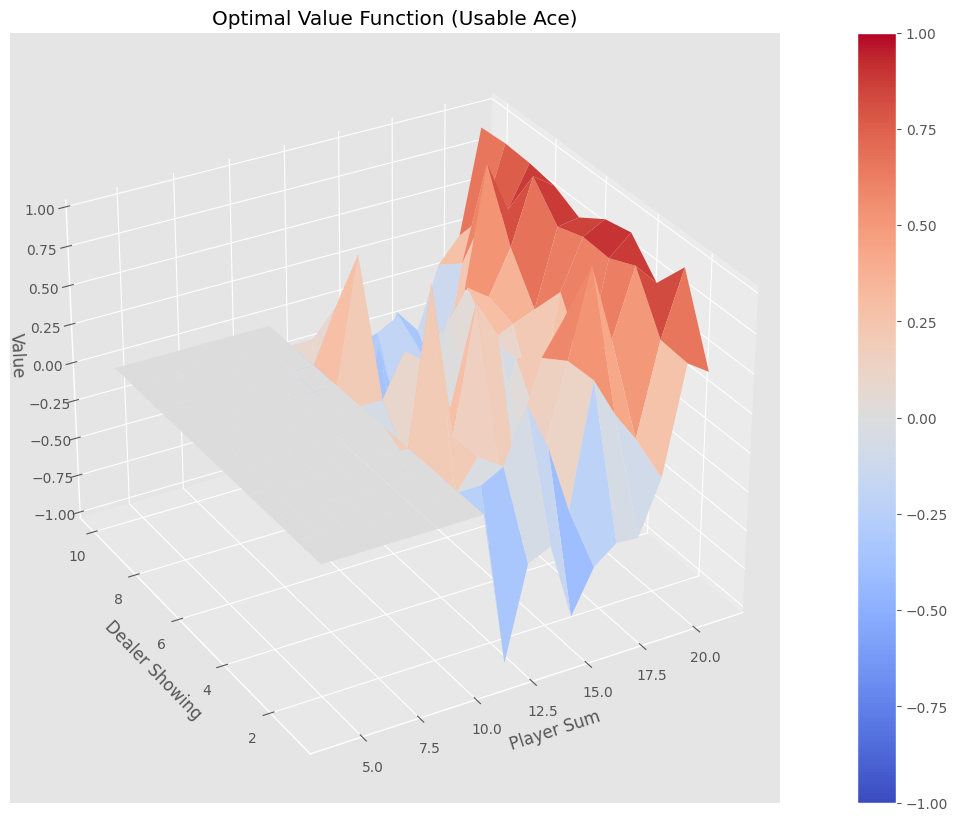
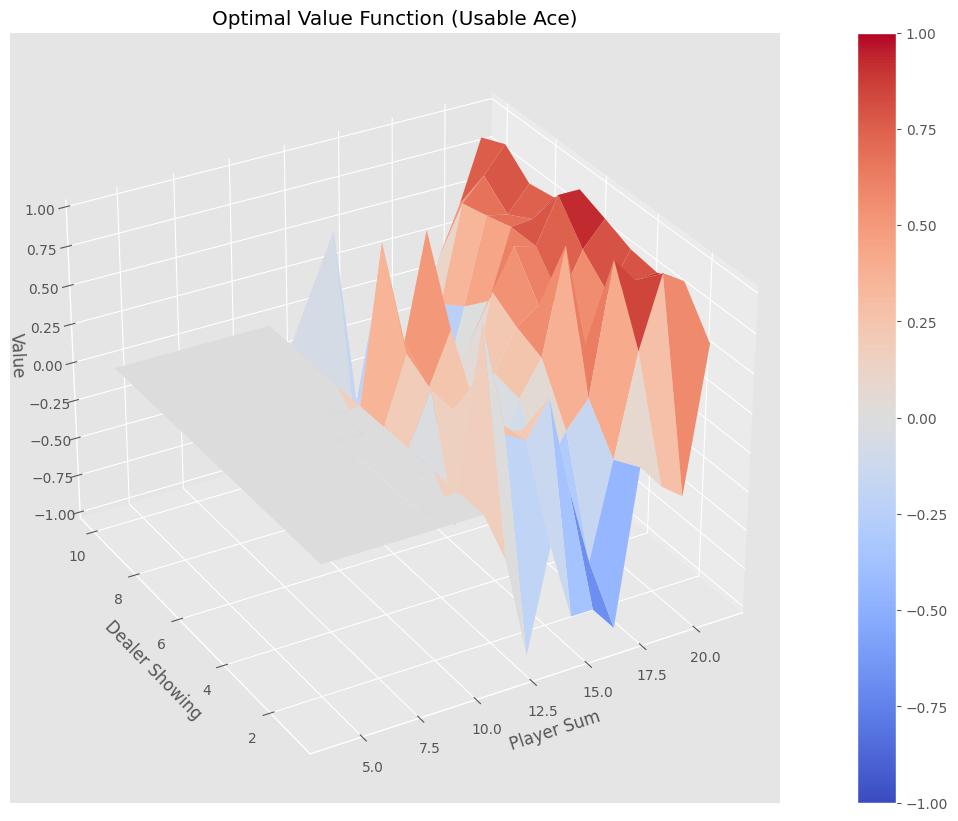
Add my warmup implementation

Changed region(s): [[0.333, 0.1523, 0.7568, 0.7917]]

diff --git a/warmup/mc.py b/warmup/mc.py
@@ -10,103 +10,98 @@ matplotlib.style.use('ggplot')
 
 env = BlackjackEnv()
 
-
 def make_epsilon_greedy_policy(Q, epsilon, nA):
     """
     Creates an epsilon-greedy policy based on a given Q-function and epsilon.
-
+    
     Args:
         Q: A dictionary that maps from state -> action-values.
             Each value is a numpy array of length nA (see below)
         epsilon: The probability to select a random action . float between 0 and 1.
         nA: Number of actions in the environment.
-
+    
     Returns:
         A function that takes the observation as an argument and returns
         the probabilities for each action in the form of a numpy array of length nA.
     """
     def policy_fn(observation):
-        # Initialize the action probabilities
-        A = np.ones(nA, dtype=float) * epsilon / nA
+        A = np.ones(nA, dtype=float) * epsilon / nA  # Initialize the action probabilities
         best_action = np.argmax(Q[observation])      # Find the best action
-        # Add (1 - epsilon) probability to the best action
-        A[best_action] += (1.0 - epsilon)
+        A[best_action] += (1.0 - epsilon)            # Add (1 - epsilon) probability to the best action
         return A
     return policy_fn
-
 
 def mc_first_visit(env, num_episodes, discount_factor=1.0, epsilon=0.1):
     """
     Monte Carlo Control using Epsilon-Greedy policies.
     Finds an optimal epsilon-greedy policy.
-
+    
     Args:
         env: OpenAI gym environment.
         num_episodes: Number of episodes to sample.
         discount_factor: Gamma discount factor.
         epsilon: Chance to sample a random action. Float betwen 0 and 1.
-
+    
     Returns:
         A tuple (Q, policy).
         Q is a dictionary mapping state -> action values.
         policy is a function that takes an observation as an argument and returns
         action probabilities.
-
-    Action Space    Discrete(2)
-    Observation Space   Tuple(Discrete(32), Discrete(11), Discrete(2))
     """
-
+    
     # Keeps track of sum and count of returns for each state
     # to calculate an average. We could use an array to save all
     # returns (like in the book) but that's memory inefficient.
     returns_sum = defaultdict(float)
     returns_count = defaultdict(int)  # 计数用 int 更合理
-
+    
     # The final action-value function.
     # A nested dictionary that maps state -> (action -> action-value).
     Q = defaultdict(lambda: np.zeros(env.action_space.n))
-
+    
     # The policy we're following
     policy = make_epsilon_greedy_policy(Q, epsilon, env.action_space.n)
-
+    
     for i_episode in range(1, num_episodes + 1):
         # Print out which episode we're on, useful for debugging.
         if i_episode % 1000 == 0:
             print("\rEpisode {}/{}.".format(i_episode, num_episodes), end="")
             sys.stdout.flush()
 
-        ######################### Implement your code here#########################
-
+        #########################Implement your code here#########################
         # Step 1: Generate an episode: an array of (state, action, reward) tuples
-
         episode = []
         state = env.reset()
-        done = False
-
-        while not done:
-            action_prob = policy(state)
-            action = np.random.choice(
-                np.arange(len(action_prob)), p=action_prob)
+        while True:
+            probs = policy(state)
+            action = np.random.choice(np.arange(len(probs)), p=probs)
             next_state, reward, done, _ = env.step(action)
             episode.append((state, action, reward))
+            if done:
+                break
             state = next_state
 
         # Step 2: Find first-visit index for each (state, action) pair
+        first_visits = set()
+        first_visit_indices = {}
+        for t, (state, action, reward) in enumerate(episode):
+            if (state, action) not in first_visits:
+                first_visits.add((state, action))
+                first_visit_indices[(state, action)] = t
 
-        G = 0.0
-        visited_sa = set()
-
-        for t in reversed(range(len(episode))):
-            s, a, r = episode[t]
-            G = discount_factor * G + r
         # Step 3: Calculate returns backward, update only at first-visit time step
-            if (s, a) not in visited_sa:
-                visited_sa.add((s, a))
-                returns_sum[(s, a)] += G
-                returns_count[(s, a)] += 1
-                Q[s][a] = returns_sum[(s, a)] / returns_count[(s, a)]
-
-        ######################### Implement your code end#########################
+        G = 0
+        for t in range(len(episode) - 1, -1, -1):
+            state, action, reward = episode[t]
+            G = discount_factor * G + reward
+            
+            # Check if current t is the first time we visited (state, action)
+            if first_visit_indices[(state, action)] == t:
+                sa_pair = (state, action)
+                returns_sum[sa_pair] += G
+                returns_count[sa_pair] += 1
+                Q[state][action] = returns_sum[sa_pair] / returns_count[sa_pair]
+        #########################Implement your code end#########################
     return Q, policy
 
 
@@ -115,58 +110,60 @@ def mc_every_visit(env, num_episodes, discount_factor=1.0, epsilon=0.1):
     Monte Carlo Control using Epsilon-Greedy policies.
     Finds an optimal epsilon-greedy policy.
     """
-
+    
     returns_sum = defaultdict(float)
     returns_count = defaultdict(int)  # 计数用 int 更合理
     Q = defaultdict(lambda: np.zeros(env.action_space.n))
     policy = make_epsilon_greedy_policy(Q, epsilon, env.action_space.n)
-
+    
     for i_episode in range(1, num_episodes + 1):
         if i_episode % 1000 == 0:
             print("\rEpisode {}/{}.".format(i_episode, num_episodes), end="")
             sys.stdout.flush()
 
-        ######################### Implement your code here#########################
-
+        #########################Implement your code here#########################
         # Step 1: Generate an episode
         episode = []
         state = env.reset()
-        done = False
-
-        while not done:
-            action_probs = policy(state)
-            action = np.random.choice(len(action_probs), p=action_probs)
+        while True:
+            probs = policy(state)
+            action = np.random.choice(np.arange(len(probs)), p=probs)
             next_state, reward, done, _ = env.step(action)
             episode.append((state, action, reward))
+            if done:
+                break
             state = next_state
-
+        
         # Step 2: Calculate returns for each (state, action) pair (every-visit)
-
-        G = 0.0
-        for t in reversed(range(len(episode))):
-            s, a, r = episode[t]
-            G = discount_factor * G + r
-            returns_sum[(s, a)] += G
-            returns_count[(s, a)] += 1
-            Q[s][a] = returns_sum[(s, a)] / returns_count[(s, a)]
-        ######################### Implement your code end#########################
+        G = 0
+        for t in range(len(episode) - 1, -1, -1):
+            state, action, reward = episode[t]
+            G = discount_factor * G + reward
+            
+            # 由于是every visit,每一次visit我们都要
+            sa_pair = (state,action)
+            returns_sum[sa_pair] += G
+            returns_count[sa_pair] += 1
+            Q[state][action] = returns_sum[sa_pair] / returns_count[sa_pair]
+        #########################Implement your code end#########################
 
     return Q, policy
 
-
 if __name__ == "__main__":
     # First-Visit Monte Carlo
-    # Q, policy = mc_first_visit(env, num_episodes=500000, epsilon=0.1)
-    # V = defaultdict(float)
-    # for state, actions in Q.items():
-    #     V[state] = np.max(actions)
-    # plotting.plot_value_function(V, title="Optimal Value Function",
-    #                              file_name="First_Visit_Value_Function_Episodes_500000")
-
-    # Every-Visit Monte Carlo
-    Q, policy = mc_every_visit(env, num_episodes=500000, epsilon=0.1)
+    Q, policy = mc_first_visit(env, num_episodes=10000, epsilon=0.1)
     V = defaultdict(float)
     for state, actions in Q.items():
         V[state] = np.max(actions)
-    plotting.plot_value_function(V, title="Optimal Value Function",
-                                 file_name="Every_Visit_Value_Function_Episodes_500000")
+    plotting.plot_value_function(V, title="Optimal Value Function", 
+        file_name="First_Visit_Value_Function_Episodes_10000")
+    
+    # Every-Visit Monte Carlo
+    '''
+    Q, policy = mc_every_visit(env, num_episodes=10000, epsilon=0.1)
+    V = defaultdict(float)
+    for state, actions in Q.items():
+        V[state] = np.max(actions)
+    plotting.plot_value_function(V, title="Optimal Value Function", 
+        file_name="Every_Visit_Value_Function_Episodes_10000")
+    '''

diff --git a/warmup/sarsa.py b/warmup/sarsa.py
@@ -76,14 +76,26 @@ def sarsa(env, num_episodes, discount_factor=1.0, alpha=0.5, epsilon=0.1, max_st
         
         # One step in the environment (with max_steps safety limit)
         for t in range(max_steps):
-            #########################Implement your code here#########################
-            raise NotImplementedError("Not implemented")
             # step 1 : Take a step using current action
+            next_state, reward, done, _ = env.step(action)
+            stats.episode_rewards[i_episode] += reward
+            stats.episode_lengths[i_episode] = t
 
             # step 2 : TD Update (with terminal handling)
+            next_action = None
+            if done:
+                Q[state][action] += alpha * (reward - Q[state][action])
+            else:
+                next_action_probs = policy(next_state)
+                next_action = np.random.choice(np.arange(len(next_action_probs)), p=next_action_probs)
+                Q[state][action] += alpha * (reward + discount_factor * Q[next_state][next_action] - Q[state][action])
 
             # step 3 : Pick next action and move to next state-action pair
-
+            if done:
+                break
+            
+            state = next_state
+            action = next_action
             #########################Implement your code end#########################
     return Q, stats
 

diff --git a/warmup/qlearning.py b/warmup/qlearning.py
@@ -100,15 +100,27 @@ def q_learning(env, num_episodes, discount_factor=1.0, alpha=0.5, epsilon=0.1, m
 
         # One step in the environment (with max_steps safety limit)
         for t in range(max_steps):
-            #########################Implement your code here#########################
-            raise NotImplementedError("Not implemented")
             # step 1 : Take a step
-
+            action_probs = policy(state)
+            action = np.random.choice(np.arange(len(action_probs)), p=action_probs)
+            next_state, reward, done, _ = env.step(action)
+            
+            stats.episode_rewards[i_episode] += reward
+            stats.episode_lengths[i_episode] = t
+            
             # step 2 : TD Update (with terminal handling)
+            best_next_action_val = 0.0
+            if not done:
+                best_next_action_val = np.max(Q[next_state])
+            
+            td_target = reward + discount_factor * best_next_action_val
+            td_error = td_target - Q[state][action]
+            Q[state][action] += alpha * td_error
 
             # step 3 : Move to next state and handle episode end
-
-            #########################Implement your code end#########################
+            if done:
+                break
+            state = next_state
     return Q, stats
 
 
